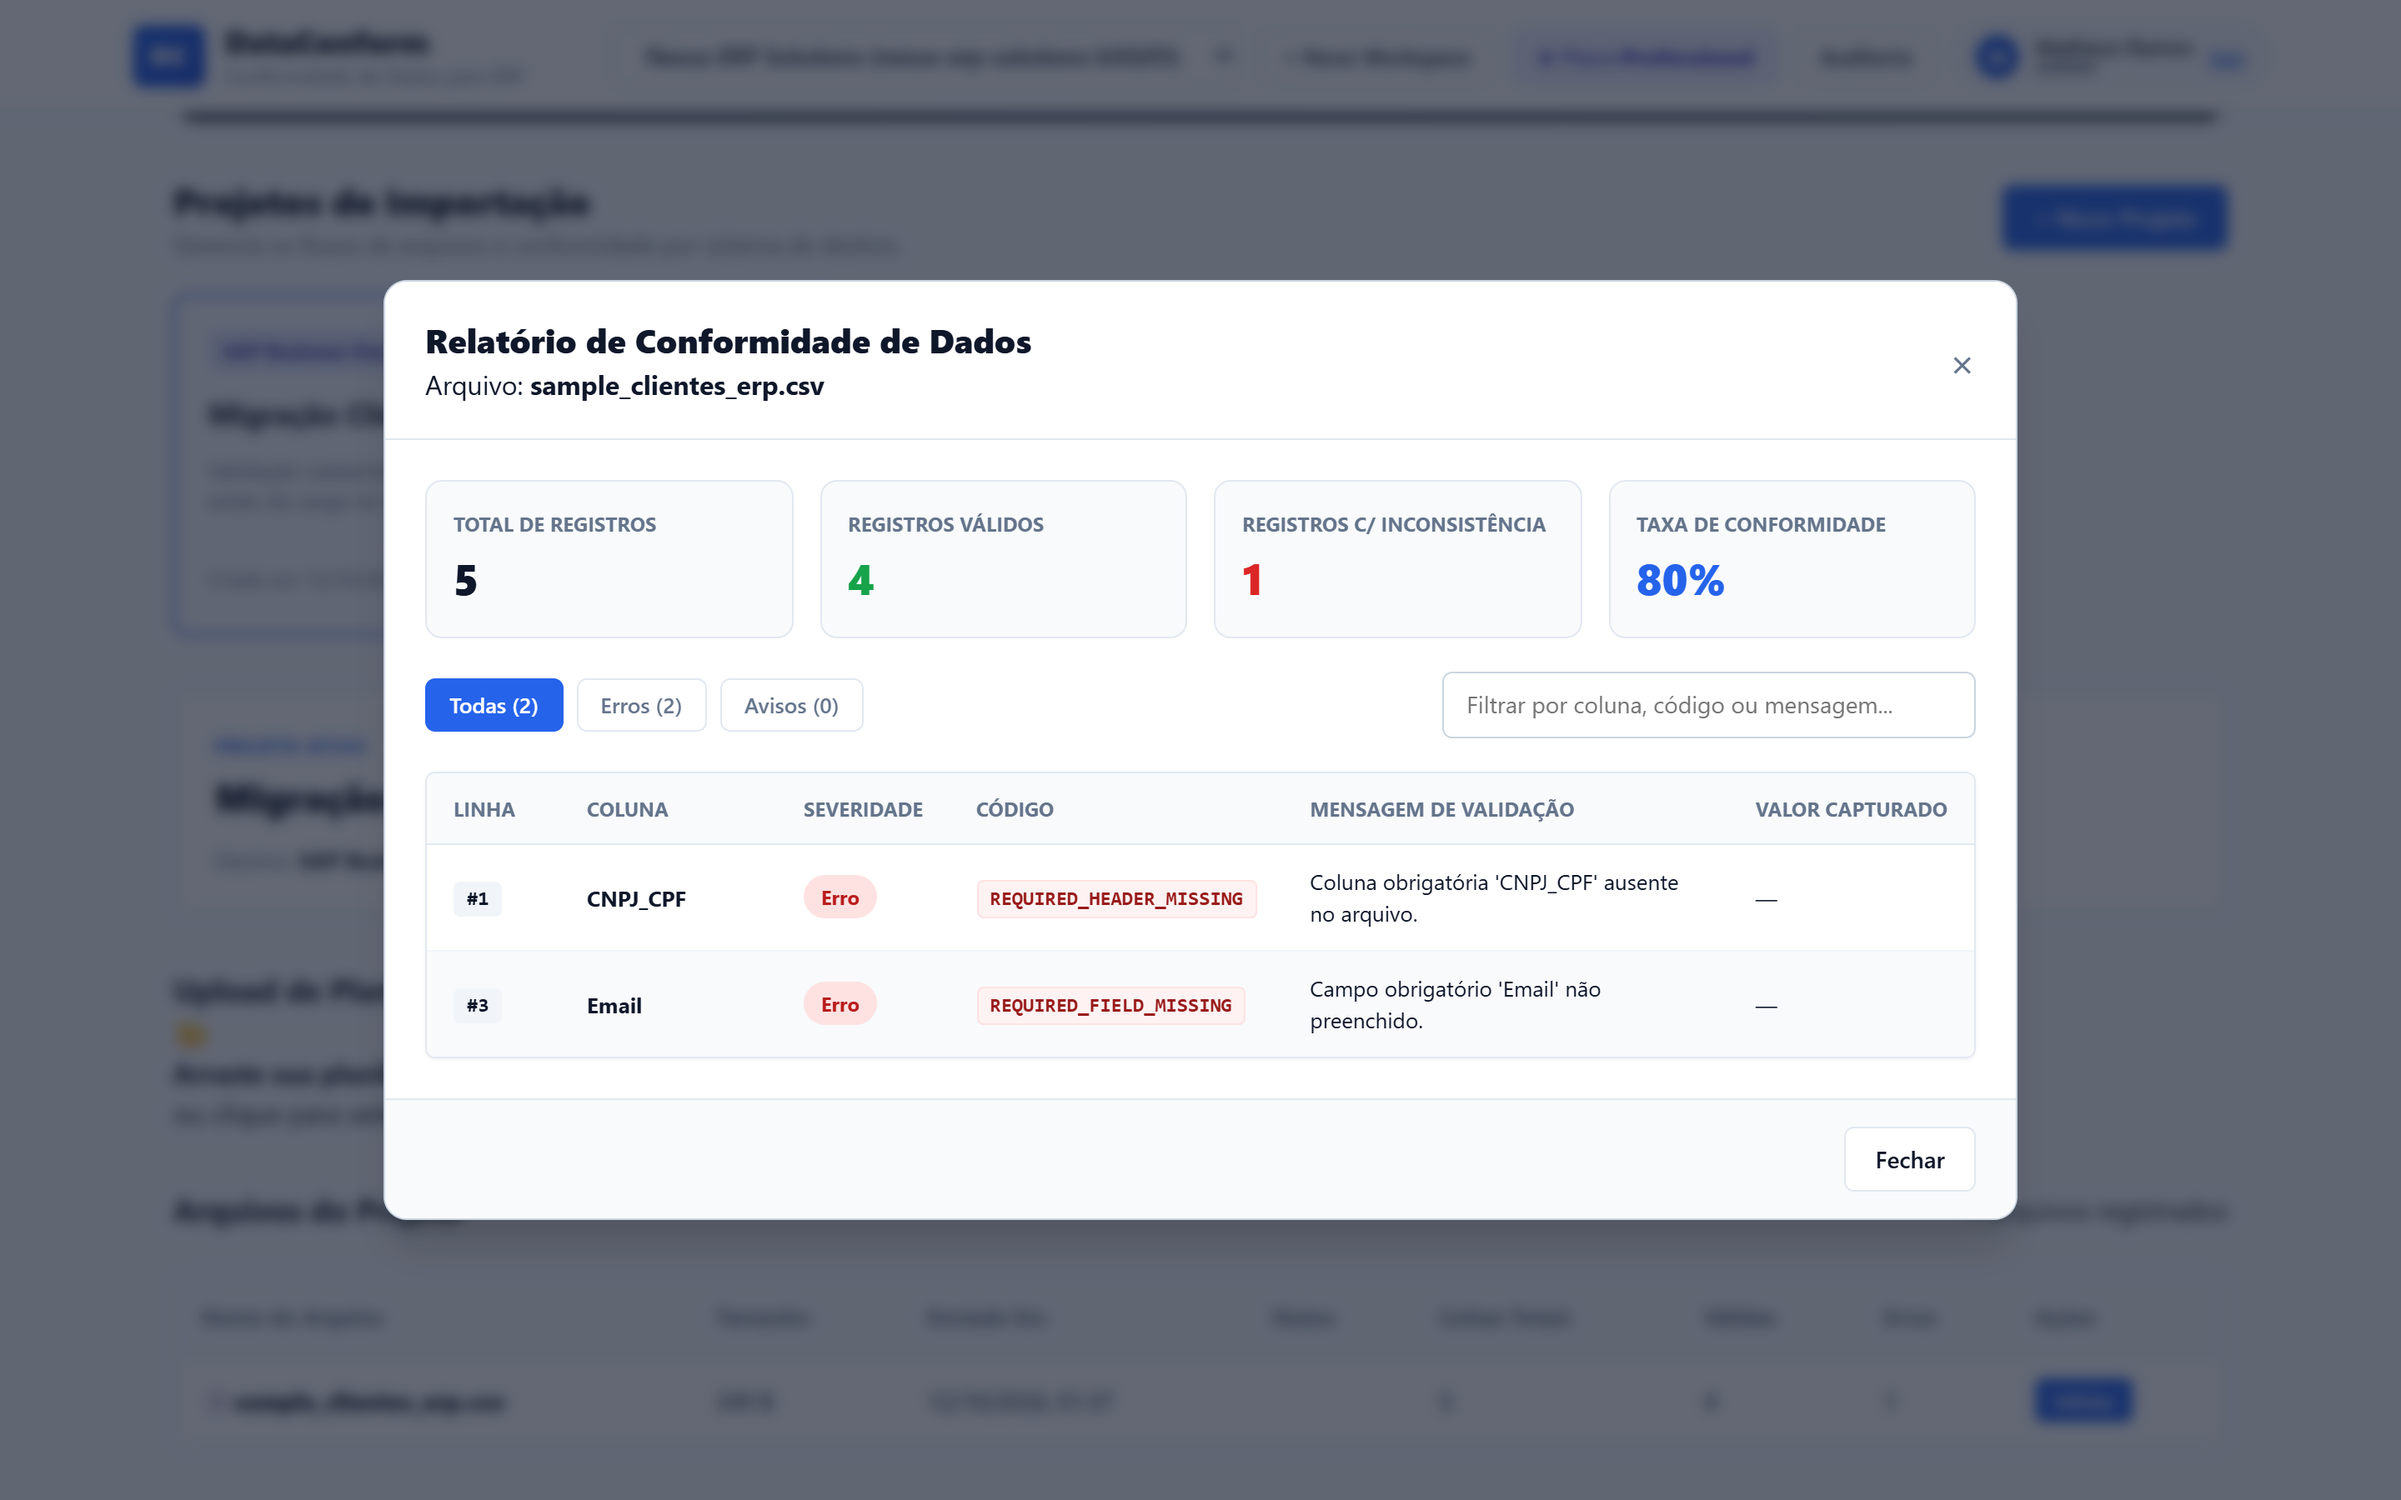
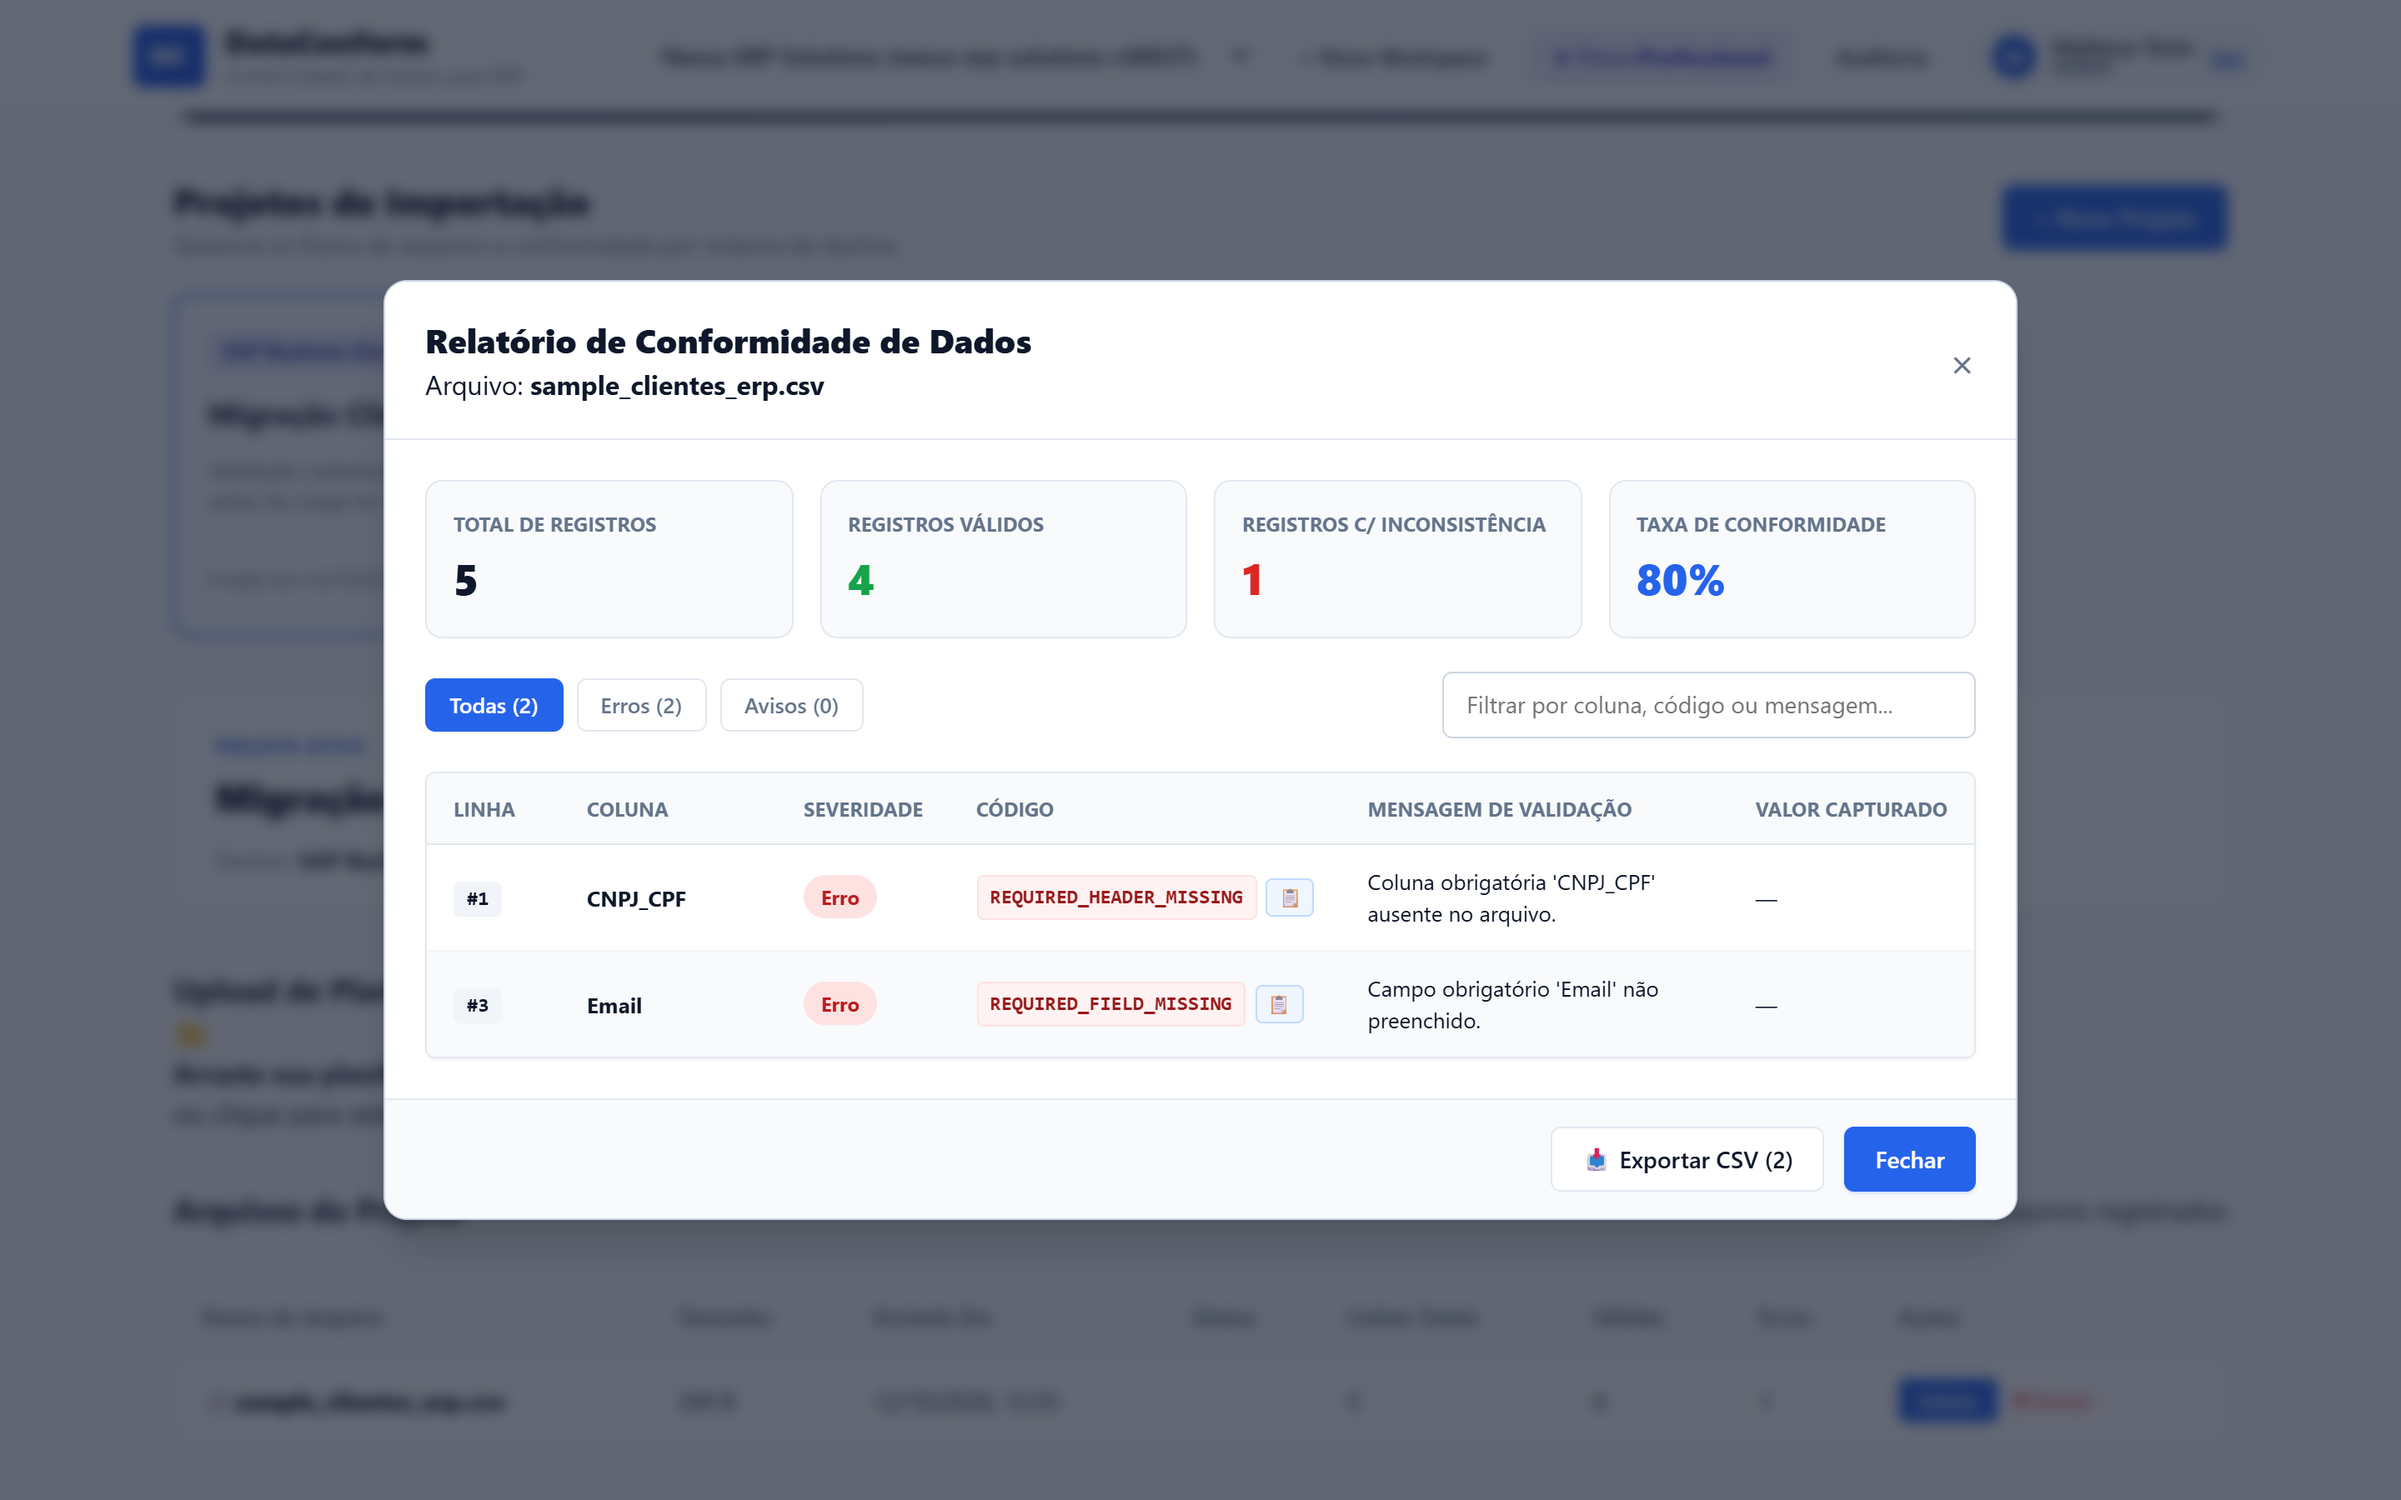
chore(security & branding): sanitize CSV formula injection, add security headers, patch OpenApi 2.7.5, update test branding to Matheus Teste and revise self-serve pricing

diff --git a/frontend/src/components/ChangePlanModal.tsx b/frontend/src/components/ChangePlanModal.tsx
@@ -34,7 +34,7 @@ const PLANS: PlanOption[] = [
   {
     key: 'Professional',
     name: 'Professional',
-    price: 'R$ 299 / mês',
+    price: 'R$ 79 / mês *',
     monthlyFiles: 500,
     maxRows: '50.000 linhas/arquivo',
     description: 'Para operações comerciais ativas com integrações ERP contínuas.',
@@ -44,7 +44,7 @@ const PLANS: PlanOption[] = [
   {
     key: 'Enterprise',
     name: 'Enterprise',
-    price: 'R$ 990 / mês',
+    price: 'R$ 249 / mês *',
     monthlyFiles: 10000,
     maxRows: '1.000.000 linhas/arquivo',
     description: 'Volume massivo, alta prioridade de processamento e auditoria avançada.',
@@ -120,6 +120,13 @@ export const ChangePlanModal: FC<ChangePlanModalProps> = ({
           <p className="plan-modal-intro">
             Selecione o plano ideal para a capacidade operacional do workspace <strong>{workspace.name}</strong>:
           </p>
+
+          <div className="plan-disclaimer-box">
+            <span className="disclaimer-badge">Valores Ilustrativos</span>
+            <span className="disclaimer-text">
+              * Preços e limites acima são meramente demonstrativos para homologação e customizáveis por cada organização.
+            </span>
+          </div>
 
           <div className="plans-grid">
             {PLANS.map((plan: PlanOption) => {

diff --git a/frontend/src/components/ValidationReportModal.tsx b/frontend/src/components/ValidationReportModal.tsx
@@ -64,14 +64,23 @@ export const ValidationReportModal: FC<ValidationReportModalProps> = ({ report, 
   const handleExportCsv = (): void => {
     if (!report || filteredIssues.length === 0) return;
 
+    const sanitizeCsvCell = (val: string | null | undefined): string => {
+      if (!val) return '""';
+      let safe: string = val;
+      if (/^[=+\-@\t\r]/.test(safe)) {
+        safe = `'${safe}`;
+      }
+      return `"${safe.replace(/"/g, '""')}"`;
+    };
+
     const headers: string[] = ['Linha', 'Coluna', 'Severidade', 'Codigo', 'Mensagem', 'Valor Capturado'];
     const rows: string[][] = filteredIssues.map((issue: ValidationIssueDto) => [
       issue.rowNumber ? String(issue.rowNumber) : '',
       issue.columnName ?? 'Geral',
       isErrorSeverity(issue.severity) ? 'Erro' : 'Aviso',
-      issue.issueCode,
-      `"${(issue.message ?? '').replace(/"/g, '""')}"`,
-      `"${(issue.rawValue ?? '').replace(/"/g, '""')}"`,
+      sanitizeCsvCell(issue.issueCode),
+      sanitizeCsvCell(issue.message),
+      sanitizeCsvCell(issue.rawValue),
     ]);
 
     const csvContent: string =

diff --git a/scripts/homologate.js b/scripts/homologate.js
@@ -41,9 +41,9 @@ async function run() {
     const toggleBtn = await page.waitForSelector('.auth-toggle-link button');
     await toggleBtn.click();
     await page.waitForSelector('#auth-name');
-    await page.type('#auth-name', 'Matheus Ramos');
+    await page.type('#auth-name', 'Matheus Teste');
     await page.type('#auth-ws', 'Nexus ERP Solutions');
-    const uniqueEmail = `matheus.${Date.now()}@nexuserp.com`;
+    const uniqueEmail = `teste.${Date.now()}@exemploerp.com`;
     await page.type('#auth-email', uniqueEmail);
     await page.type('#auth-password', 'senhaSegura123!');
     await page.screenshot({ path: path.join(screenshotsDir, '03-auth-register-form.png') });

diff --git a/frontend/src/App.css b/frontend/src/App.css
@@ -1470,3 +1470,32 @@
   padding: 0.2rem 0.5rem;
   border-radius: 9999px;
 }
+
+.plan-disclaimer-box {
+  display: flex;
+  align-items: center;
+  gap: 0.6rem;
+  background-color: var(--primary-light);
+  border: 1px solid var(--primary-border);
+  padding: 0.45rem 0.75rem;
+  border-radius: var(--radius-sm);
+  margin-bottom: 1.25rem;
+  font-size: 0.8rem;
+  color: var(--primary);
+}
+
+.disclaimer-badge {
+  font-weight: 700;
+  background: var(--primary);
+  color: #ffffff;
+  padding: 0.15rem 0.45rem;
+  border-radius: 4px;
+  font-size: 0.7rem;
+  text-transform: uppercase;
+  white-space: nowrap;
+}
+
+.disclaimer-text {
+  font-size: 0.78rem;
+  color: #1e3a8a;
+}

diff --git a/frontend/src/components/AuthModal.tsx b/frontend/src/components/AuthModal.tsx
@@ -97,7 +97,7 @@ export const AuthModal: FC<AuthModalProps> = ({ isOpen, onClose, onSuccess }) =>
                     id="auth-name"
                     type="text"
                     className="form-control"
-                    placeholder="Ex: Matheus Ramos"
+                    placeholder="Ex: Matheus Teste"
                     value={fullName}
                     onChange={(e: React.ChangeEvent<HTMLInputElement>) => setFullName(e.target.value)}
                     required

diff --git a/backend/DataConform.Api/Program.cs b/backend/DataConform.Api/Program.cs
@@ -50,6 +50,16 @@ builder.Services.AddOpenApi();
 
 WebApplication app = builder.Build();
 
+// Security Headers Middleware
+app.Use(async (context, next) =>
+{
+    context.Response.Headers.Append("X-Content-Type-Options", "nosniff");
+    context.Response.Headers.Append("X-Frame-Options", "DENY");
+    context.Response.Headers.Append("X-XSS-Protection", "1; mode=block");
+    context.Response.Headers.Append("Referrer-Policy", "strict-origin-when-cross-origin");
+    await next();
+});
+
 // Configure the HTTP request pipeline.
 if (app.Environment.IsDevelopment())
 {

diff --git a/README.md b/README.md
@@ -105,6 +105,10 @@ flowchart LR
 
 ## Demonstração Visual do Produto
 
+> [!NOTE]
+> **Aviso sobre Dados de Demonstração & Valores Ilustrativos:**  
+> Todos os nomes de usuários (ex: *Matheus Teste*), e-mails corporativos, bem como os valores monetários e planos exibidos nas telas abaixo são **estritamente demonstrativos e ilustrativos**, servindo apenas para comprovar o funcionamento dos fluxos de software e a flexibilidade comercial da plataforma. Valores e regras são livremente customizáveis por contrato.
+
 ### 1. Painel Principal & Seleção de Projetos
 Visão consolidada com indicador de cota comercial, lista de projetos organizados por ERP e fila de arquivos:
 ![Dashboard com Projeto Selecionado](./scripts/screenshots/06-project-selected-dashboard.png)
